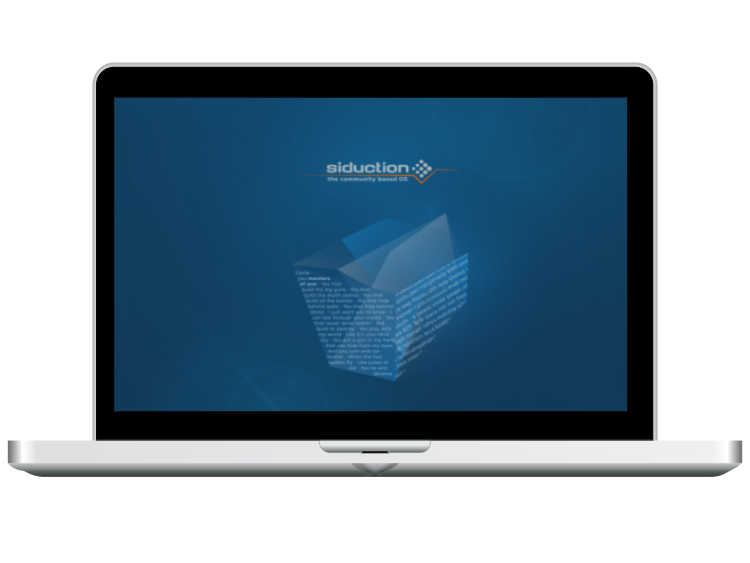
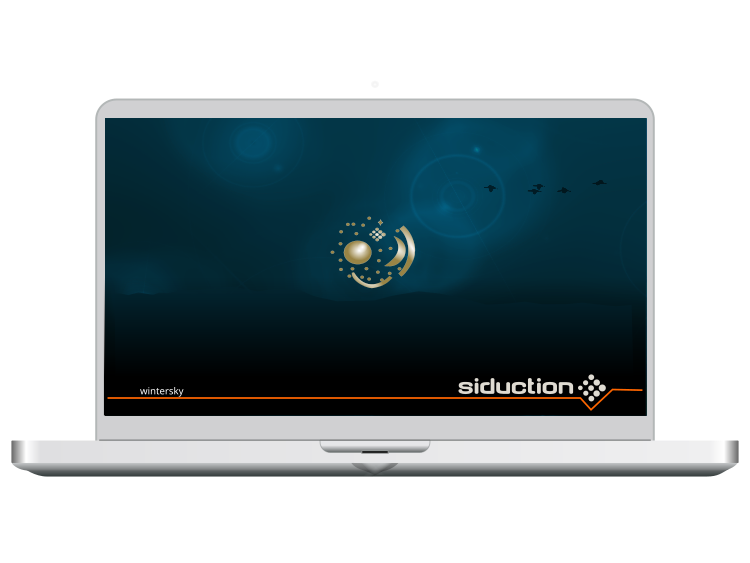
wintersky

diff --git a/calamares/branding/siduction/show.qml b/calamares/branding/siduction/show.qml
@@ -141,7 +141,7 @@ Presentation
         Text {
             anchors.horizontalCenter: background6.horizontalCenter
             anchors.top: background6.bottom
-            text: qsTr("Nasters Of War.<br/>")
+            text: qsTr("Wintersky, by hendrikL amd towo.<br/>")
             wrapMode: Text.WordWrap
             width: 800
             horizontalAlignment: Text.Center
@@ -160,7 +160,7 @@ Presentation
         Text {
             anchors.horizontalCenter: background7.horizontalCenter
             anchors.top: background7.bottom
-            text: qsTr("The release for a special occasion: 30 years of Debian “We stand on the shoulders of giants” <br/>with artwork by Ona Kristensen.")
+            text: qsTr("Masters Of War, made by vinzv with the debian wallpaper in mind. Our statement about Putins war against the Ukraine!<br/>")
             wrapMode: Text.WordWrap
             width: 800
             horizontalAlignment: Text.Center
@@ -179,6 +179,25 @@ Presentation
         Text {
             anchors.horizontalCenter: background8.horizontalCenter
             anchors.top: background8.bottom
+            text: qsTr("The release for a special occasion: 30 years of Debian “We stand on the shoulders of giants” <br/>with artwork by Ona Kristensen.")
+            wrapMode: Text.WordWrap
+            width: 800
+            horizontalAlignment: Text.Center
+        }
+    }
+
+    Slide {
+
+        Image {
+            id: background9
+            source: "slide9.png"
+            width: 467; height: 280
+            fillMode: Image.PreserveAspectFit
+            anchors.centerIn: parent
+        }
+        Text {
+            anchors.horizontalCenter: background9.horizontalCenter
+            anchors.top: background9.bottom
             text: qsTr("Also, we want to thank all the people who helped to start this project and adventure 'siduction'!<br/>"+
                   "Have fun and <b>'apt moo'<b/>!<br/>")
             wrapMode: Text.WordWrap

diff --git a/calamares/branding/de-slide.ts b/calamares/branding/de-slide.ts
@@ -30,16 +30,21 @@
     </message>
     <message>
         <location filename="show.qml" line="144"/>
+        <source>Wintersky, by hendrikL amd towo. The main motiv looks like the &quot;Himmelscheibe von Nebra&quot;.</source>
+        <translation>Wintersky, von hendrikL amd towo. Das Hauptmotiv ist an die &quot;Himmelscheibe von Nebra angelehnt&quot;.</translation>
+    </message>
+    <message>
+        <location filename="show.qml" line="163"/>
         <source>Masters Of War, made by vinzv with the debian wallpaper in mind. Our statement about Putins war against the Ukraine!</source>
         <translation>Masters Of War, von vinv, abgeleitet vom debian Hintergrund. Unser Statement zu Überfall Putins auf die Ukraine!</translation>
     </message>
     <message>
-        <location filename="show.qml" line="163"/>
+        <location filename="show.qml" line="182"/>
         <source>The release for a special occasion: 30 years of Debian “We stand on the shoulders of giants” &lt;br/&gt;with artwork by Ona Kristensen.</source>
         <translation>Das Release zu einem besonderen Anlass: 30 Jahre Debian &quot;We stand on the shoulders of giants&quot; &lt;br7&gt;mit Artwork von Ona Kristensen.</translation>
     </message>
     <message>
-        <location filename="siduction/show.qml" line="182"/>
+        <location filename="siduction/show.qml" line="201"/>
         <source>Also, we want to thank all the people who helped to start this project and adventure &apos;siduction&apos;!&lt;br/&gt;Have fun and &lt;b&gt;&apos;apt moo&apos;&lt;b/&gt;!&lt;br/&gt;</source>
         <translation>Außerdem möchten wir uns bei allen bedanken, die mitgeholfen haben, dieses Projekt und das Abenteuer &apos;Siduction&apos; ins Leben zu rufen!&lt;br/&gt;Habt Spaß und &lt;b&gt;&apos;apt moo&apos;&lt;b/&gt;!&lt;br/&gt;</translation>
     </message>
